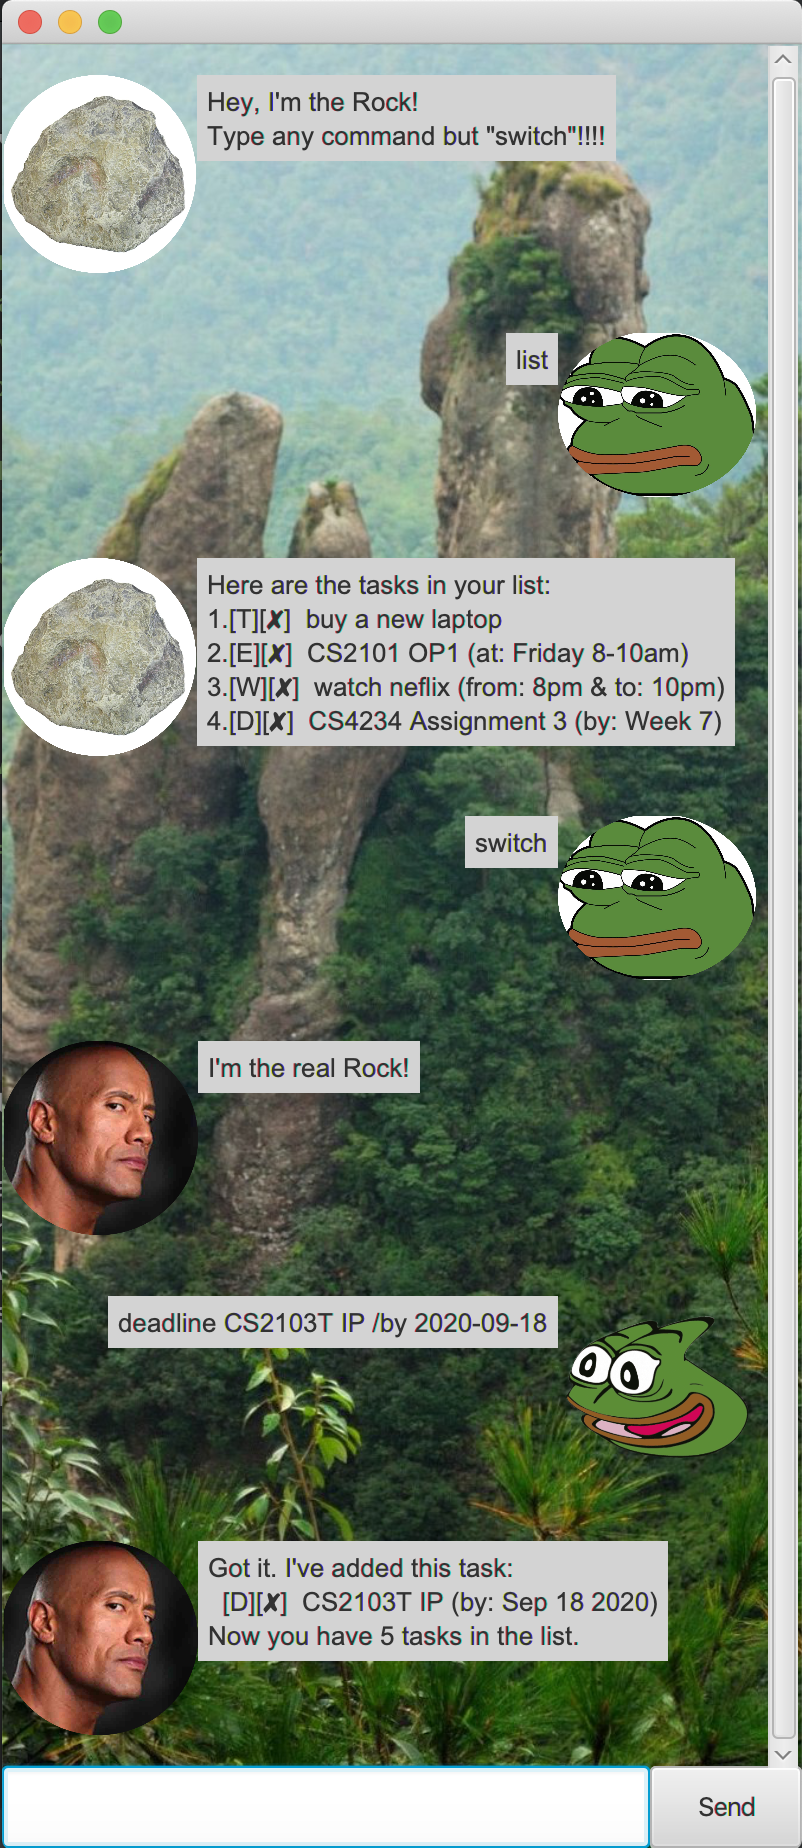
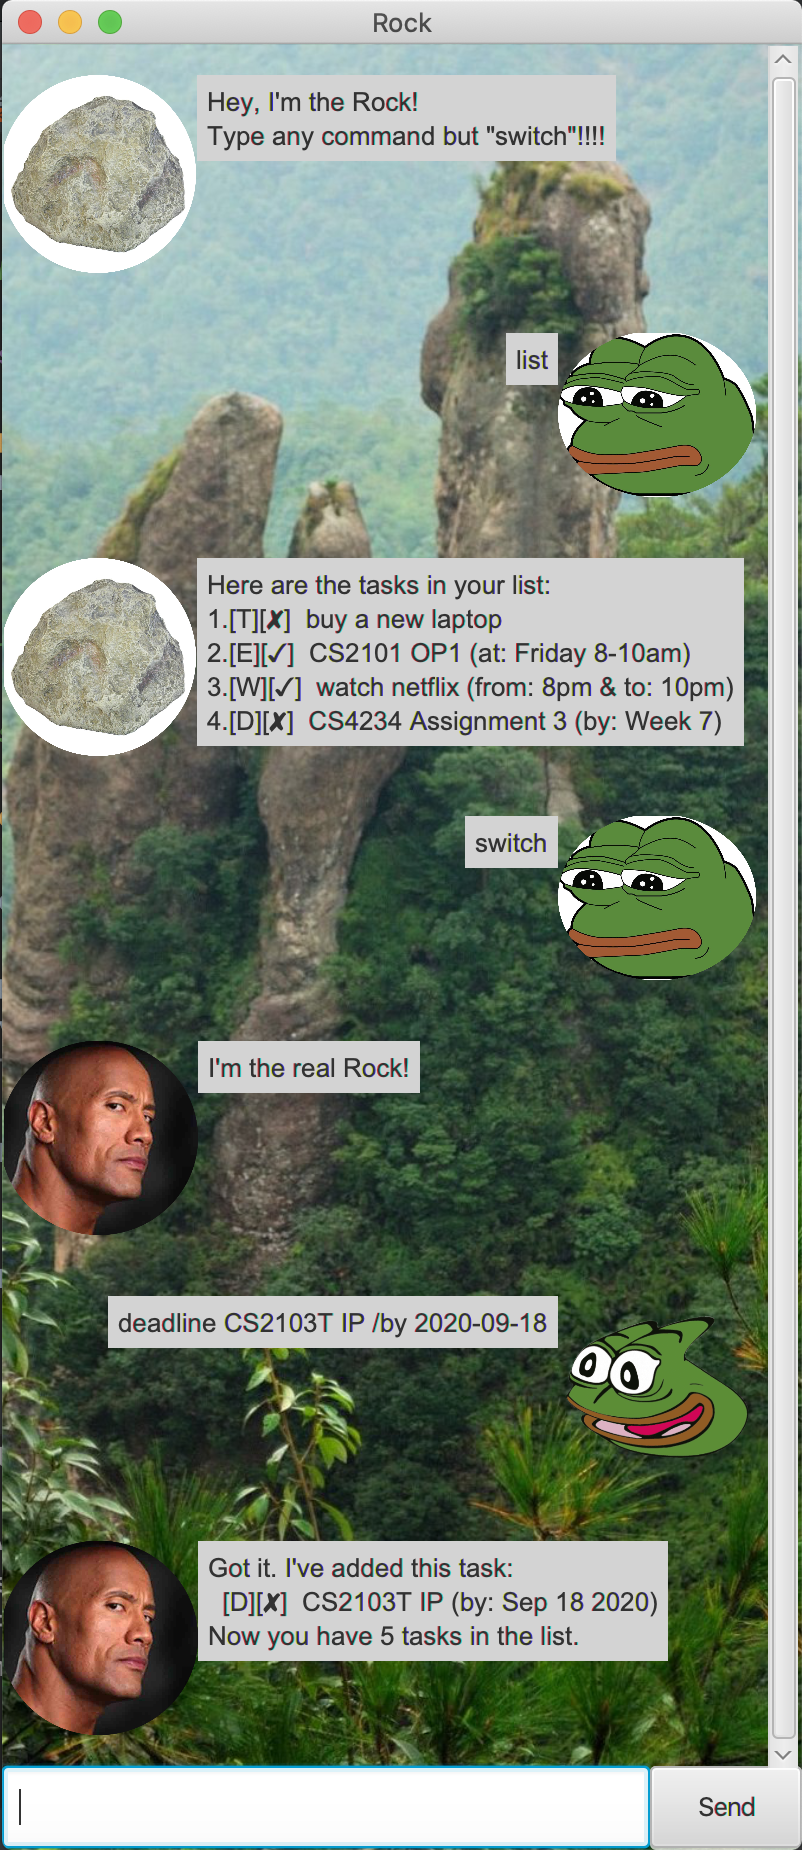
Fix Ui.png

diff --git a/src/main/java/rock/ui/Main.java b/src/main/java/rock/ui/Main.java
@@ -22,6 +22,7 @@ public class Main extends Application {
             FXMLLoader fxmlLoader = new FXMLLoader(Main.class.getResource("/view/MainWindow.fxml"));
             AnchorPane ap = fxmlLoader.load();
             Scene scene = new Scene(ap);
+            stage.setTitle("Rock");
             stage.setScene(scene);
             fxmlLoader.<MainWindow>getController().setDuke(rock);
             stage.show();

diff --git a/src/main/java/rock/admin/Rock.java b/src/main/java/rock/admin/Rock.java
@@ -34,6 +34,7 @@ public class Rock {
      * @return Duke's response
      */
     private String handleCommand(String cmd) throws RockException {
+        cmd = cmd.trim();
         MyString response = new MyString();
 
         Parser.CommandType commandType = Parser.getType(cmd);
